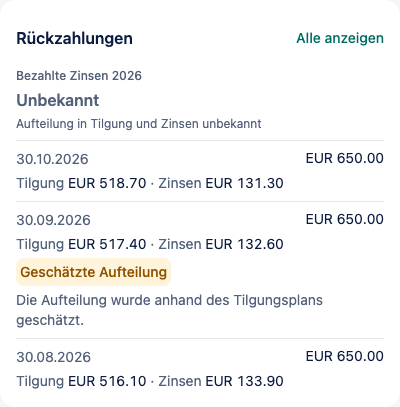
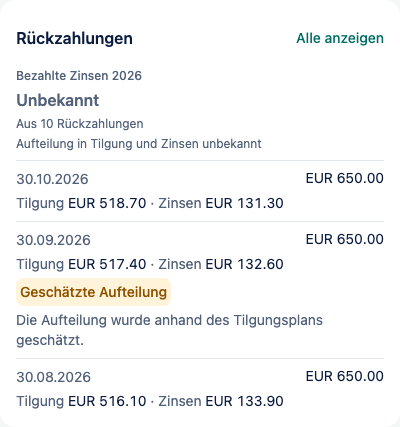
[US-12-05] Keep the repayment count when this year's split is unknown (#722)
"Not known" alone read like nothing was paid this year. Field 7 now keeps
"From {count} repayments" above "Principal and interest split unknown",
also in the screen-reader label. No amount is shown: unknownSplitAmount
under the interest title could be read as interest (PO 2026-11-25).

Figma state boards (EN/DE, light/dark) updated; web check covers the
unknown state, 146 of 146 checks pass.

diff --git a/mobile/src/features/liability-detail/repayments.tsx b/mobile/src/features/liability-detail/repayments.tsx
@@ -151,7 +151,7 @@ export function RepaymentsPanel({
 /**
  * Field 7 (#712): the server's interest sum for the current calendar year, as the first block of
  * the Repayments panel. Hidden when nothing was paid this year; an unknown split is "Not known",
- * never 0. When the sum cannot be loaded, or the loan's repayments are not accessible, the amount
+ * never 0, and the count stays (#722). When the sum cannot be loaded, or the loan's repayments are not accessible, the amount
  * is "–" and never a cached one (PO 2026-11-23). Payments without a known split are left out of
  * `interestPaid`, so their sent total is named below it (PO 2026-11-24).
  */
@@ -189,9 +189,8 @@ function InterestThisYear({ accountId, unavailable }: { accountId: string; unava
   const interest = known
     ? amountTexts(intl, { value: interestPaid, currency, masked: hidden })
     : null;
-  const meta = known
-    ? msg(intl, 'loan.interestYtdCount', { count: paymentCount })
-    : msg(intl, 'loan.splitUnknown');
+  // The count stays when no split is known, so "Not known" does not read as nothing paid (#722).
+  const meta = msg(intl, 'loan.interestYtdCount', { count: paymentCount });
   const unsplit =
     known && Number(unknownSplitAmount) > 0
       ? amountTexts(intl, { value: unknownSplitAmount, currency, masked: hidden })
@@ -200,6 +199,7 @@ function InterestThisYear({ accountId, unavailable }: { accountId: string; unava
     title,
     interest?.label ?? msg(intl, 'loan.interestUnknown'),
     meta,
+    known ? null : msg(intl, 'loan.splitUnknown'),
     splitEstimated ? msg(intl, 'loan.estimatedSplit') : null,
     // The children are not read on their own, so the visible explanation must be in the label.
     splitEstimated ? msg(intl, 'loan.interestYtdEstimated') : null,
@@ -235,6 +235,7 @@ function InterestThisYear({ accountId, unavailable }: { accountId: string; unava
           </View>
         ) : null}
       </View>
+      {known ? null : <Text style={secondary}>{msg(intl, 'loan.splitUnknown')}</Text>}
       {splitEstimated ? (
         <Text style={secondary}>{msg(intl, 'loan.interestYtdEstimated')}</Text>
       ) : null}

diff --git a/mobile/src/features/account-detail/account-detail.test.tsx b/mobile/src/features/account-detail/account-detail.test.tsx
@@ -647,11 +647,20 @@ describe('S10 liability detail (#685)', () => {
 
     it('says Not known instead of 0 when no payment of the year has a known split', async () => {
       await renderYears([
-        year(thisYear, { interestPaid: null, principalPaid: null, unknownSplitAmount: '1650.00' }),
+        year(thisYear, {
+          interestPaid: null,
+          principalPaid: null,
+          unknownSplitAmount: '1650.00',
+          paymentCount: 3,
+        }),
       ]);
       expect(await screen.findByText('Not known')).toBeTruthy();
+      // The count stays, so "Not known" does not read as nothing paid (#722); no amount is shown.
+      expect(within(field()).getByText('From 3 repayments')).toBeTruthy();
+      expect(within(field()).getByText('Principal and interest split unknown')).toBeTruthy();
+      expect(within(field()).queryByText(/1.?650/)).toBeNull();
       expect(field().props.accessibilityLabel).toBe(
-        `${title}, Not known, Principal and interest split unknown`,
+        `${title}, Not known, From 3 repayments, Principal and interest split unknown`,
       );
       expect(screen.queryByText('EUR 0.00')).toBeNull();
       // The whole year is unsplit, so there is no "Not included" part to name.

diff --git a/docs/ux/evidence/713-web-check/README.md b/docs/ux/evidence/713-web-check/README.md
@@ -11,9 +11,10 @@ the web export, with every API call mocked in Playwright (`page.route`) using sy
   - it sits between the panel title row and the first repayment row, and is the panel's
     second child (the block right after the title row);
   - "See all" is in the title row;
+  - unknown state (#722): the count sits above "split unknown", and no amount is shown;
   - nothing overflows horizontally.
 - **axe** (WCAG 2.1 AA): runs at 320 px on the error, partial and dark runs.
-- **Result:** 138 of 138 checks pass ([results.json](results.json)). The screenshots
+- **Result:** 146 of 146 checks pass ([results.json](results.json)). The screenshots
   (`<lang>-<scheme>-<width>-<state>.png`) show the Repayments panel.
 
 Run it again:
